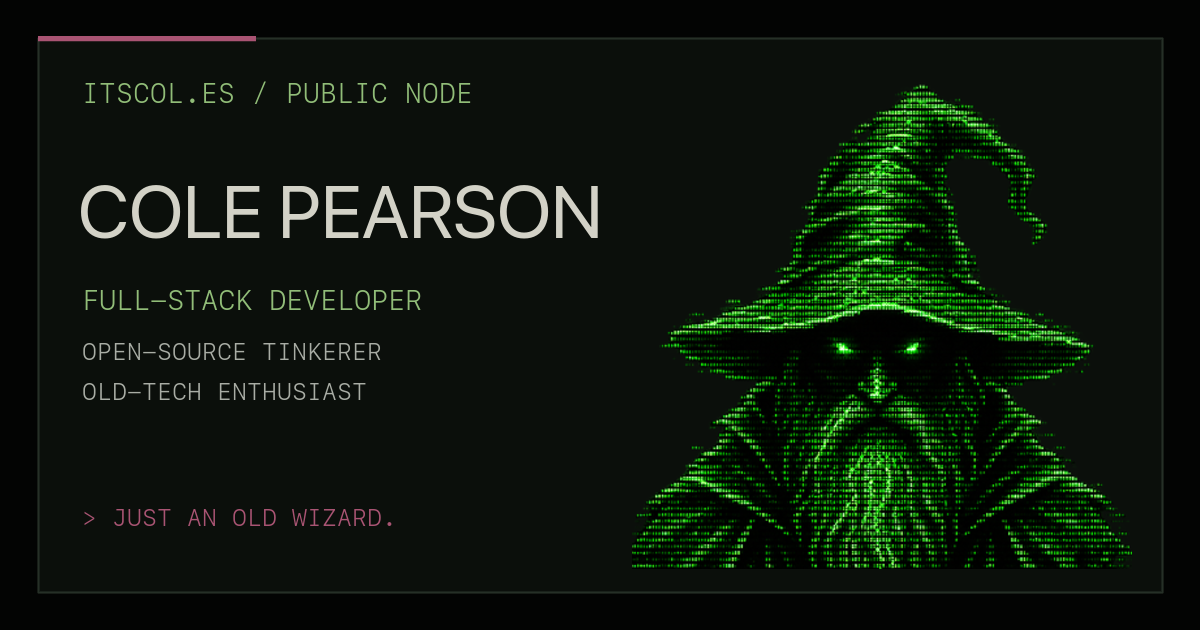
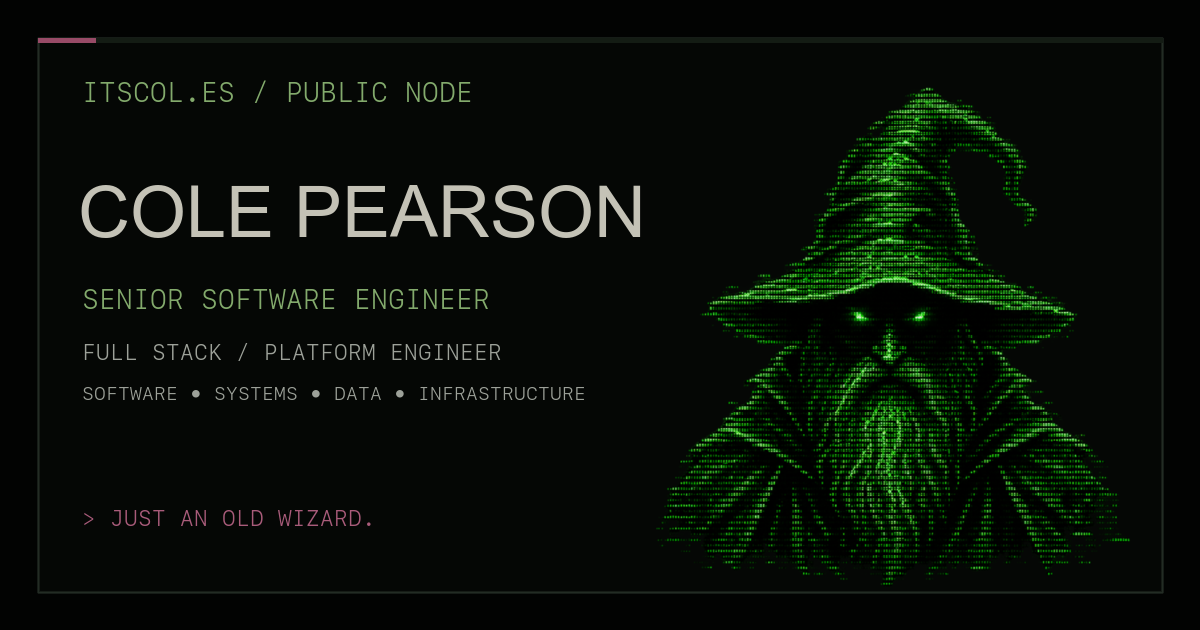
Update social cards and add Signalbox Windows development positioning

diff --git a/src/data/projects.ts b/src/data/projects.ts
@@ -17,8 +17,8 @@ export const projects: Project[] = [
     slug: 'signalbox',
     status: 'Active development',
     description:
-      'Modern terminal client for Pandora, carrying pianobar’s native-C foundation into a responsive terminal UI for macOS and Linux.',
-    tags: ['C', 'terminal UI', 'macOS', 'Linux', 'FOSS project'],
+      'Modern native-C terminal client for Pandora, evolving pianobar’s foundation into a responsive cross-platform TUI for macOS, Linux, and Windows.',
+    tags: ['C', 'terminal UI', 'cross-platform', 'FOSS project'],
     url: '/projects/signalbox/',
     accent: 'green',
   },

diff --git a/README.md b/README.md
@@ -68,7 +68,7 @@ npm run preview
 
 - [PLEASE REWIND / Dead Channel Video](/projects#please-rewind) — a horror game set in a fictional 1990s independent video store
 - [TamaMedics](https://tamamedics.com) — open-source Tamagotchi repair, preservation, and reverse-engineering work
-- [Signalbox](https://github.com/simplycole/signalbox) — a modern open-source terminal client for Pandora, built on the legacy of pianobar
+- [Signalbox](https://itscol.es/projects/signalbox/) — a modern open-source terminal client for Pandora, built on the legacy of pianobar
 - [GitHub profile](https://github.com/simplycole) — source code and public repositories
 
 ## Deployment
